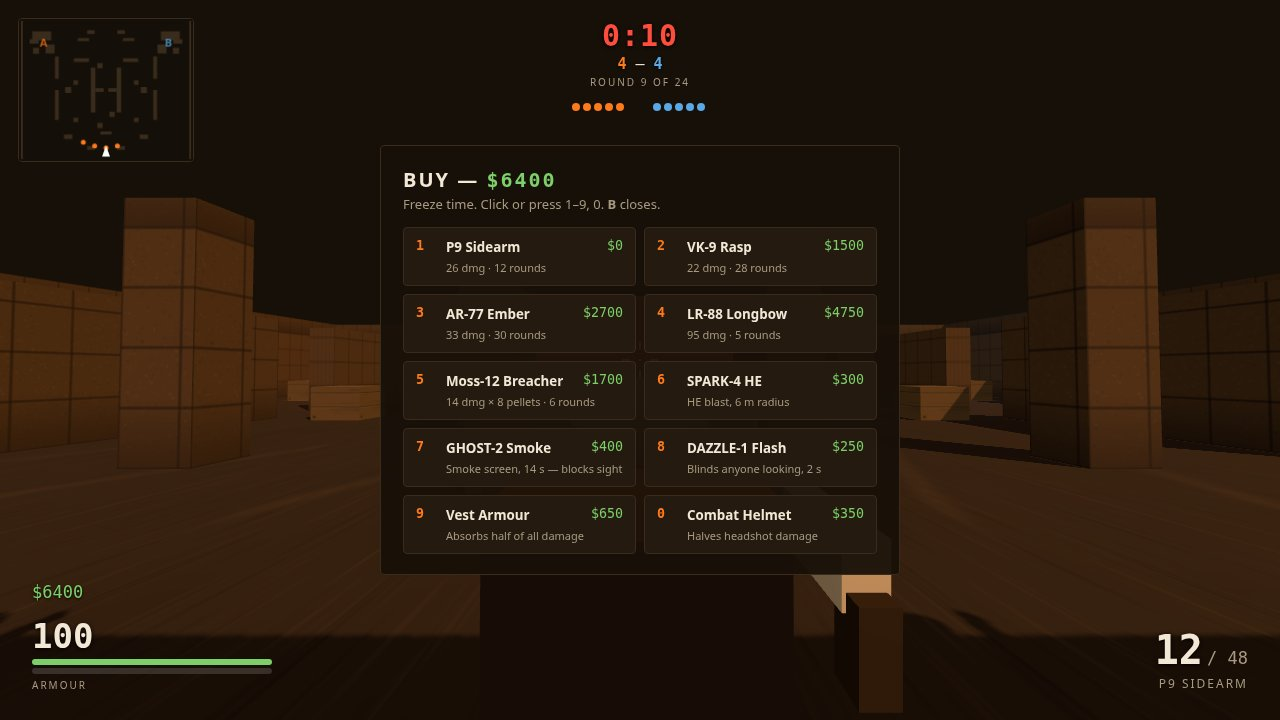
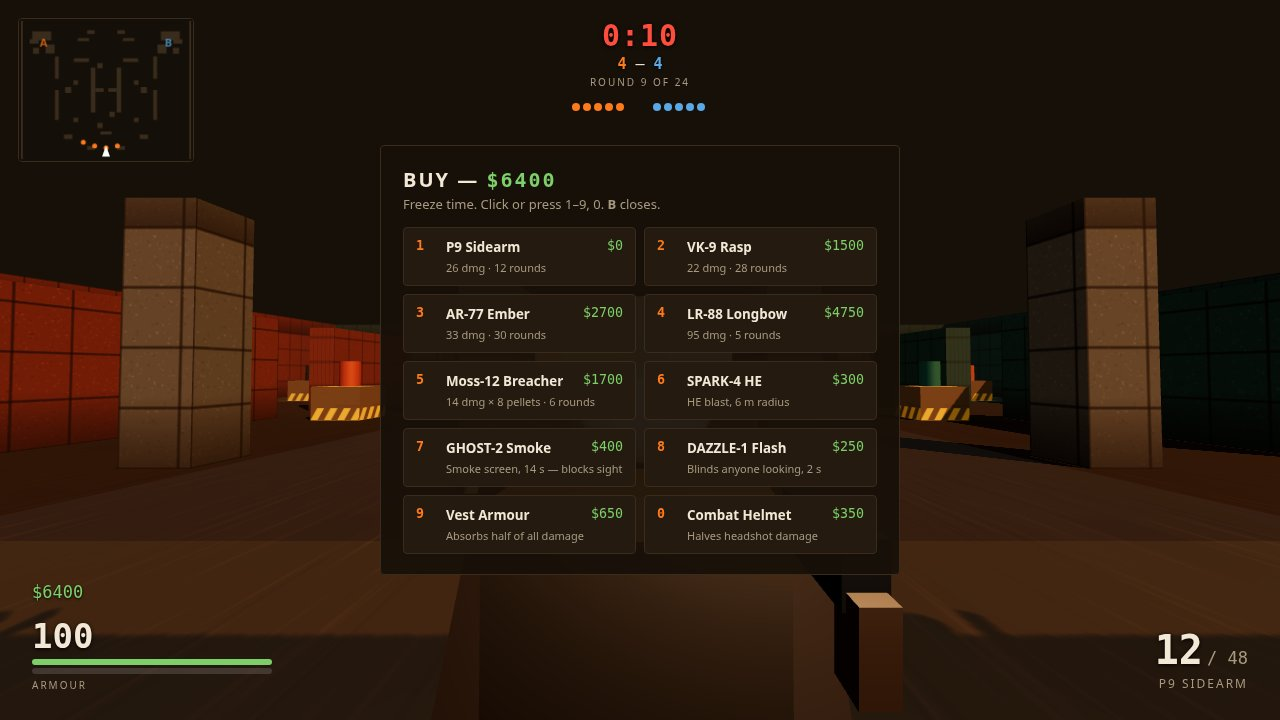
Visual pass fixes: camera fill light, capture-step flash sync, bigger site decals

diff --git a/game/src/main.js b/game/src/main.js
@@ -46,6 +46,11 @@ scene.background = new THREE.Color(PALETTE.canvas);
 scene.fog = new THREE.Fog(new THREE.Color('#1a120b'), 20, 62);
 const camera = new THREE.PerspectiveCamera(74, window.innerWidth / window.innerHeight, 0.05, 160);
 scene.add(camera);
+// Small warm fill light parented to the camera so the dark-metal viewmodel reads
+// with highlights instead of a black silhouette. Visual only.
+const vmLight = new THREE.PointLight(new THREE.Color('#ffe0b8'), 2.5, 2.5);
+vmLight.position.set(0.2, 0.1, -0.4);
+camera.add(vmLight);
 
 const world = createWorld(scene);
 const effects = createEffects(scene);
@@ -699,6 +704,9 @@ function runShot(name) {
     settle(10);
     aimAt(new THREE.Vector3(-0.3, 1.35, 0.5));
     shoot(0);
+    // One sim step so the muzzle flash sprite and the hit flash on the struck
+    // bot actually become visible before the capture freezes the frame.
+    step(FIXED_STEP);
     // Return fire: a blue tracer from the defender back past the camera.
     effects.tracer(new THREE.Vector3(-0.3, 1.35, 0.5), new THREE.Vector3(0.3, 1.2, 5.5), 0x7fb8ff);
     hud.hitMarker(false, 60000);

diff --git a/game/src/world.js b/game/src/world.js
@@ -150,16 +150,17 @@ export function createWorld(scene) {
     marker.rotation.x = -Math.PI / 2;
     marker.position.set(site.center.x, 0.03, site.center.z);
     group.add(marker);
-    // Big painted letter on the floor: the site reads at a glance.
+    // Big painted letter on the floor: the site reads at a glance. Offset toward
+    // the site entrance so the containers do not hide it from a player's eye line.
     const decal = new THREE.Mesh(
-      new THREE.PlaneGeometry(3.4, 3.4),
+      new THREE.PlaneGeometry(5, 5),
       new THREE.MeshBasicMaterial({
         map: letterDecal(key, key === 'A' ? PALETTE.accent : PALETTE.zoneB),
         transparent: true, opacity: 0.9, depthWrite: false,
       }),
     );
     decal.rotation.x = -Math.PI / 2;
-    decal.position.set(site.center.x, 0.04, site.center.z);
+    decal.position.set(site.center.x + (key === 'A' ? 2 : -2), 0.04, site.center.z);
     group.add(decal);
   }
 
